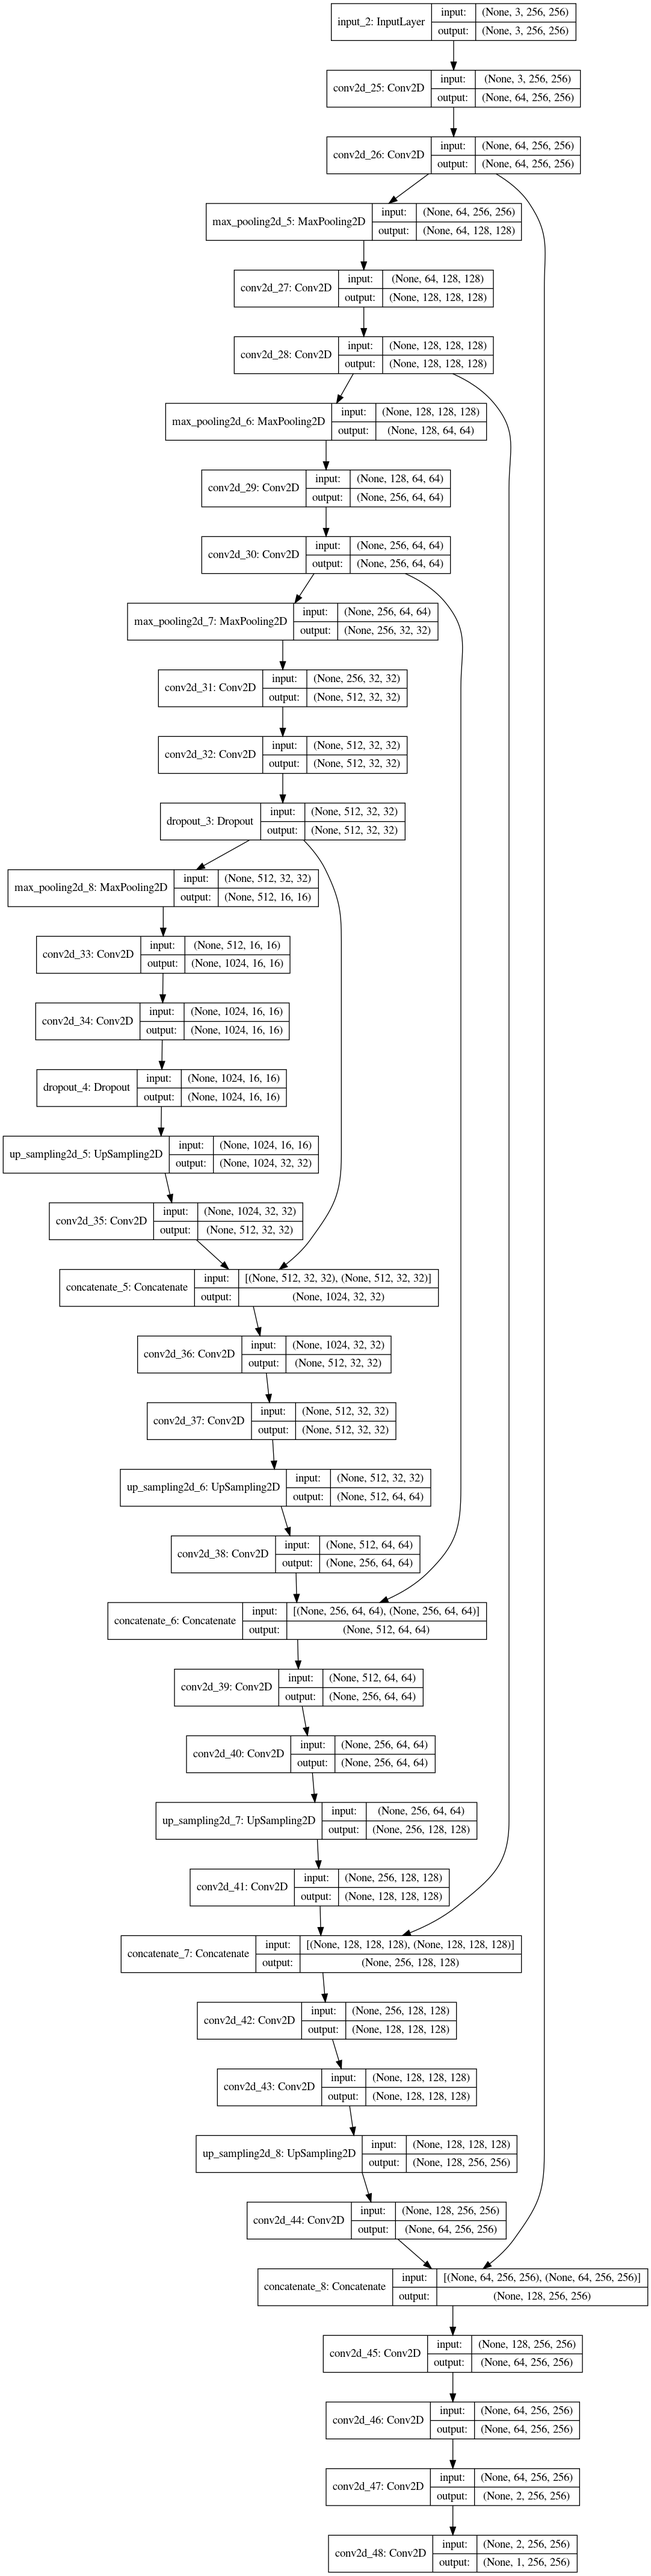
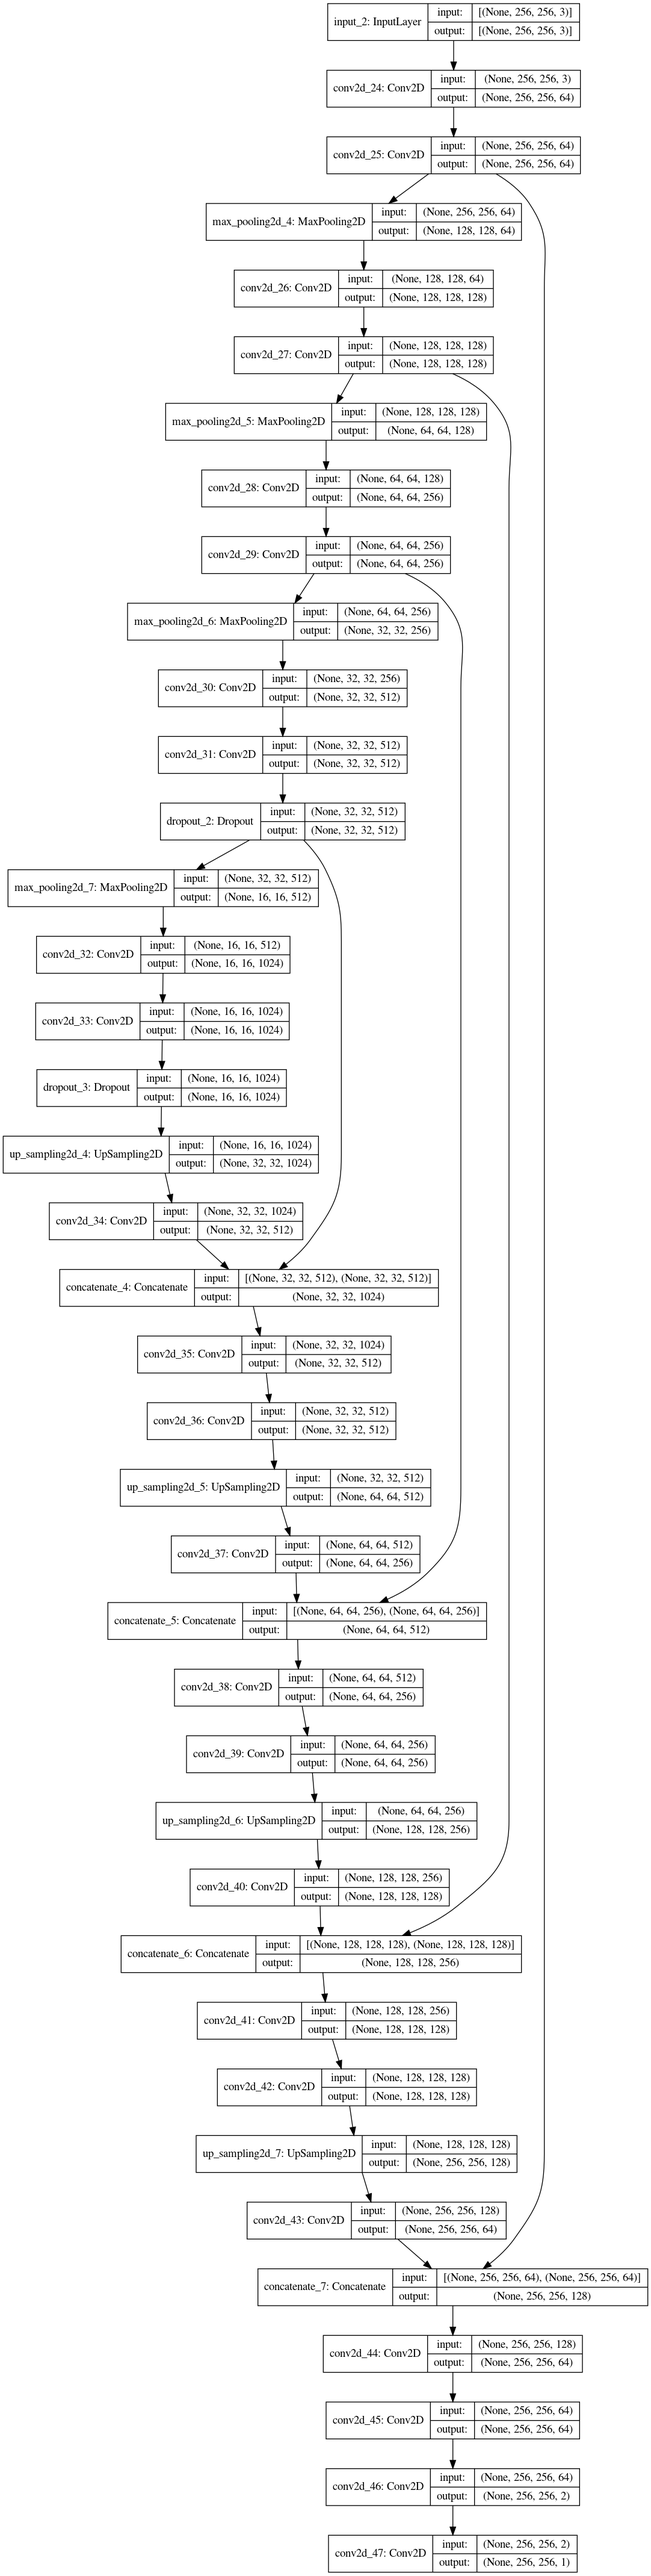
enabled training

diff --git a/Saliency Cropping.py b/Saliency Cropping.py
@@ -12,22 +12,23 @@ import os
 import keras
 import tensorflow as tf
 import keras.preprocessing.image as image
-from keras.models import Sequential, Model
-from keras import metrics
-from keras import optimizers
-from keras.models import Sequential, Model
+from tensorflow.keras.models import Sequential, Model
+from tensorflow.keras import metrics
+from tensorflow.keras import optimizers
+from tensorflow.keras.models import Sequential, Model
 from keras.layers.core import Dense
-from keras.layers import GlobalAveragePooling2D
-from keras.applications.resnet50 import ResNet50
+from tensorflow.keras.layers import GlobalAveragePooling2D
+from tensorflow.keras.applications.resnet50 import ResNet50
 import pydot, graphviz
-from keras.utils import plot_model
-from keras.applications.resnet50 import preprocess_input
+from tensorflow.keras.utils import plot_model
+from tensorflow.keras.applications.resnet50 import preprocess_input
 print(keras.__version__)
 
 # own libraries
 from networks import unet
 from utilities import binarization, path_reader, read_images_from_path
-
+from tensorflow.python.client import device_lib
+print(device_lib.list_local_devices())
 # ### Data Understanding
 # images    -- train, val, test. Normal looking images
 # maps      -- train, val. grayscale points of attention 
@@ -68,13 +69,13 @@ spatial_size = 256
 
 
 # image data generator
-images_train_datagen = image.ImageDataGenerator(rescale=1. / 255, preprocessing_function=preprocess_input, data_format='channels_first')
-images_val_datagen = image.ImageDataGenerator(rescale=1. / 255, preprocessing_function=preprocess_input, data_format='channels_first')
-images_test_datagen = image.ImageDataGenerator(rescale=1. / 255, preprocessing_function=preprocess_input, data_format='channels_first')
+images_train_datagen = image.ImageDataGenerator(rescale=1. / 255, preprocessing_function=preprocess_input, data_format='channels_last')
+images_val_datagen = image.ImageDataGenerator(rescale=1. / 255, preprocessing_function=preprocess_input, data_format='channels_last')
+images_test_datagen = image.ImageDataGenerator(rescale=1. / 255, preprocessing_function=preprocess_input, data_format='channels_last')
 
-maps_train_datagen = image.ImageDataGenerator(preprocessing_function=None, data_format='channels_first')
-maps_val_datagen = image.ImageDataGenerator(preprocessing_function=None, data_format='channels_first')
-maps_test_datagen = image.ImageDataGenerator(preprocessing_function=None, data_format='channels_first')
+maps_train_datagen = image.ImageDataGenerator(preprocessing_function=None, data_format='channels_last')
+maps_val_datagen = image.ImageDataGenerator(preprocessing_function=None, data_format='channels_last')
+maps_test_datagen = image.ImageDataGenerator(preprocessing_function=None, data_format='channels_last')
 
 # flow
 images_train_generator = images_train_datagen.flow_from_directory(directory=images_train_path, classes=None, class_mode=None, batch_size=batch_size, target_size=(spatial_size, spatial_size), shuffle=False)
@@ -92,14 +93,16 @@ model = unet()
 model.compile(loss='mean_squared_error', optimizer=adam, metrics=[metrics.categorical_accuracy])
 
 # # get items out of generators
-# batch_index = 0
-# # while batch_index <= images_train_datagen.batch_size:
-# steps = 10000 // batch_size
-# for i in range(steps):
-# 	data = images_train_datagen.next()
-# 	print(data.shape)
-for imgs, maps in zip(images_train_generator, maps_train_generator):
-	model.fit(imgs, maps, batch_size = batch_size, epochs = epochs, shuffle=False)
+
+for epoch in range(epochs):
+	print("Epoch %i / %i" % (epoch, epochs))
+	batches = 0
+	for imgs, maps in zip(images_train_generator, maps_train_generator):
+		
+		model.fit(imgs, maps, batch_size = batch_size, epochs = 1, shuffle=False)
+		batches += 1
+		print("Samples Trained %i / %i" % (int(batches * batch_size), len(images_train_generator)))
+		
 
 # model.fit(x=images_train_generator, y=None, epochs=epochs)
 

diff --git a/networks.py b/networks.py
@@ -7,15 +7,15 @@ import os
 import skimage.io as io
 import skimage.transform as trans
 import numpy as np
-from keras.models import *
-from keras.layers import *
-from keras.optimizers import *
-from keras.callbacks import ModelCheckpoint, LearningRateScheduler
-from keras import backend as keras
-from keras.utils import plot_model
+from tensorflow.keras.models import *
+from tensorflow.keras.layers import *
+from tensorflow.keras.optimizers import *
+from tensorflow.keras.callbacks import ModelCheckpoint, LearningRateScheduler
+from tensorflow.keras import backend as keras
+from tensorflow.keras.utils import plot_model
 
 
-def unet(pretrained_weights = None, input_size = (3, 256, 256)):
+def unet(pretrained_weights = None, input_size = (256, 256, 3)):
 	input_img = Input(input_size)
 	conv1 = Conv2D(64, 3, activation = 'relu', padding = 'same', kernel_initializer = 'he_normal')(input_img)
 	conv1 = Conv2D(64, 3, activation = 'relu', padding = 'same', kernel_initializer = 'he_normal')(conv1)
@@ -36,22 +36,22 @@ def unet(pretrained_weights = None, input_size = (3, 256, 256)):
 	drop5 = Dropout(0.5)(conv5)
 
 	up6 = Conv2D(512, 2, activation = 'relu', padding = 'same', kernel_initializer = 'he_normal')(UpSampling2D(size = (2,2))(drop5))
-	merge6 = concatenate([drop4,up6], axis = 1)
+	merge6 = concatenate([drop4,up6], axis = 3)
 	conv6 = Conv2D(512, 3, activation = 'relu', padding = 'same', kernel_initializer = 'he_normal')(merge6)
 	conv6 = Conv2D(512, 3, activation = 'relu', padding = 'same', kernel_initializer = 'he_normal')(conv6)
 
 	up7 = Conv2D(256, 2, activation = 'relu', padding = 'same', kernel_initializer = 'he_normal')(UpSampling2D(size = (2,2))(conv6))
-	merge7 = concatenate([conv3,up7], axis = 1)
+	merge7 = concatenate([conv3,up7], axis = 3)
 	conv7 = Conv2D(256, 3, activation = 'relu', padding = 'same', kernel_initializer = 'he_normal')(merge7)
 	conv7 = Conv2D(256, 3, activation = 'relu', padding = 'same', kernel_initializer = 'he_normal')(conv7)
 
 	up8 = Conv2D(128, 2, activation = 'relu', padding = 'same', kernel_initializer = 'he_normal')(UpSampling2D(size = (2,2))(conv7))
-	merge8 = concatenate([conv2,up8], axis = 1)
+	merge8 = concatenate([conv2,up8], axis = 3)
 	conv8 = Conv2D(128, 3, activation = 'relu', padding = 'same', kernel_initializer = 'he_normal')(merge8)
 	conv8 = Conv2D(128, 3, activation = 'relu', padding = 'same', kernel_initializer = 'he_normal')(conv8)
 
 	up9 = Conv2D(64, 2, activation = 'relu', padding = 'same', kernel_initializer = 'he_normal')(UpSampling2D(size = (2,2))(conv8))
-	merge9 = concatenate([conv1,up9], axis = 1)
+	merge9 = concatenate([conv1,up9], axis = 3)
 	conv9 = Conv2D(64, 3, activation = 'relu', padding = 'same', kernel_initializer = 'he_normal')(merge9)
 	conv9 = Conv2D(64, 3, activation = 'relu', padding = 'same', kernel_initializer = 'he_normal')(conv9)
 	conv9 = Conv2D(2, 3, activation = 'relu', padding = 'same', kernel_initializer = 'he_normal')(conv9)
